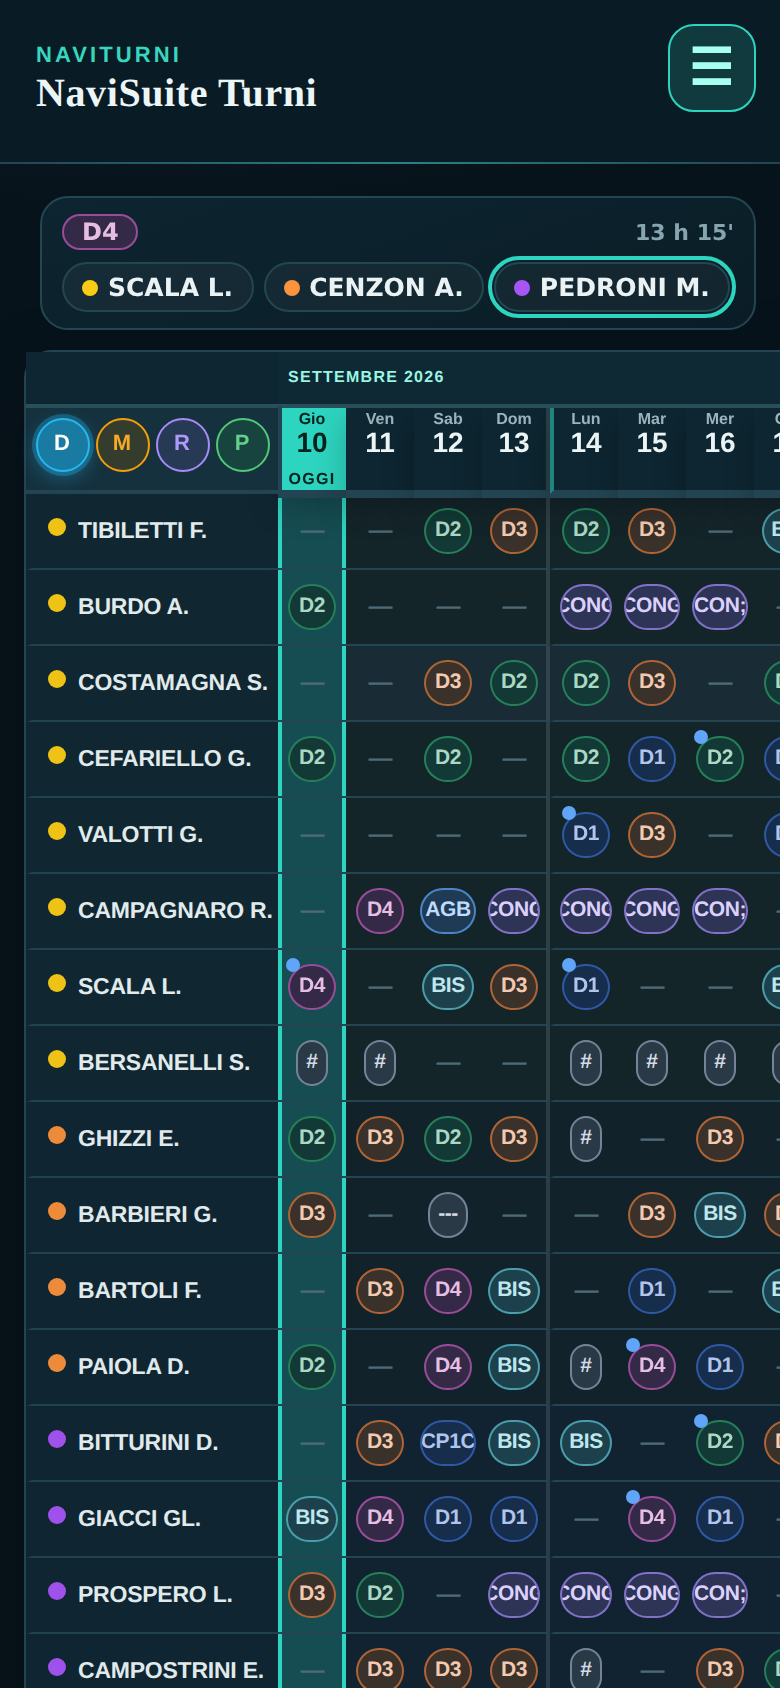
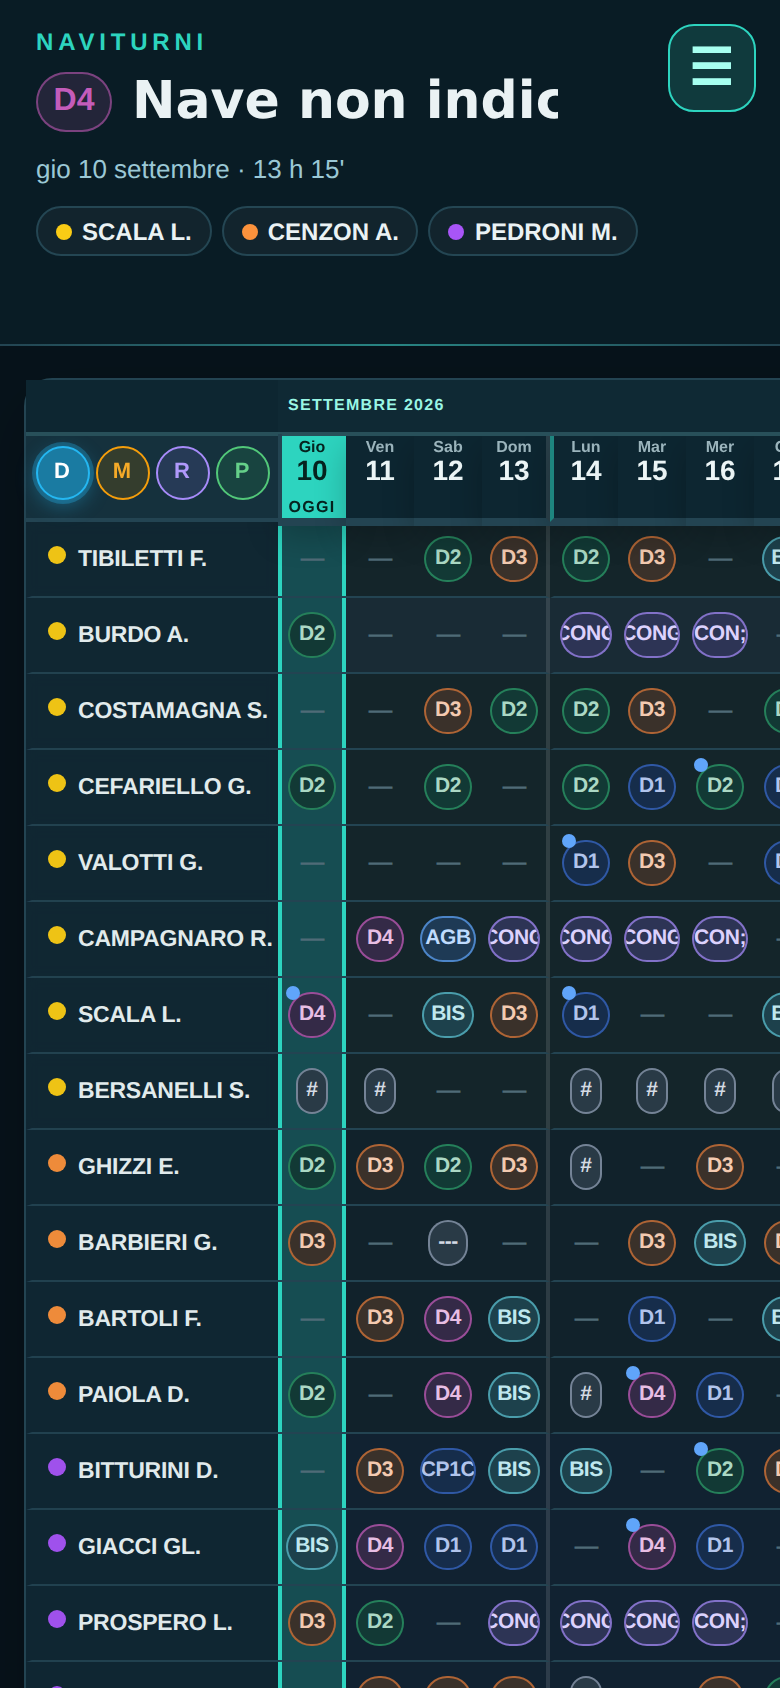
NaviTurni: equipaggio nella testata con lo stile del Mio turno, altezza fissa, due righe di nomi
Claude-Session: https://claude.ai/code/session_01VDWATqq8aPYLsGMarqRFMx

diff --git a/assets/js/naviturni-vista.js b/assets/js/naviturni-vista.js
@@ -5,6 +5,10 @@
   'use strict';
   const G = window.NaviTurniGiorno, C = window.NaviShiftCompetence;
   const box = document.getElementById('nt-vista');
+  // la testata della pagina diventa quella del turno scelto (al posto di «NaviSuite Turni»)
+  const header = document.querySelector('body>header.page-header');
+  const testata = document.createElement('div'); testata.id = 'nt-testata';
+  if (header) { header.querySelector('.turni-header-copy')?.setAttribute('hidden', ''); header.prepend(testata); }
   if (!G || !box) return;
   document.body.classList.add('nt-stile');
   const GIORNI = ['dom', 'lun', 'mar', 'mer', 'gio', 'ven', 'sab'], MESI = ['gennaio', 'febbraio', 'marzo', 'aprile', 'maggio', 'giugno', 'luglio', 'agosto', 'settembre', 'ottobre', 'novembre', 'dicembre'];
@@ -31,28 +35,31 @@
   const giornoLungo = day => { const d = parse(day); return `${GIORNI[d.getDay()]} ${d.getDate()} ${MESI[d.getMonth()]}`; };
 
   // Riquadro in alto: il turno scelto (di default il mio di oggi) e chi c'e' a bordo
+  // Testata come il Mio turno: etichetta, codice + nave, giorno e ore, poi l'equipaggio in bolle (due righe).
+  // Righe ad altezza fissa: cambiando corsa o servizio la tabella sotto non si sposta.
   function scheda() {
     const mio = io();
     const day = scelta?.day || oggi, code = scelta?.code || (mio ? turno(mio.a, oggi) : '');
-    
-    if (!code || RIPOSO.test(code)) return `<div class="nt-sez"><div class="nt-mio"><span class="nt-code rip">—</span><div><b>Riposo</b><small>Tocca un turno nella tabella per vedere l'equipaggio.</small></div></div></div>`;
+    const giorno = giornoLungo(day);
+    const testa = (titolo, contesto, nomi) => `<p class="terra-label">NAVITURNI</p><h1 class="terra-title nt-titolo">${titolo}</h1><p class="terra-context nt-contesto">${contesto}</p><div class="nt-eq-nomi">${nomi}</div>`;
+    if (!code || RIPOSO.test(code)) return testa('Riposo', `${giorno} · tocca un turno per vedere l'equipaggio`, '');
     const nave = G.naveCode(code), ore = Number(C?.shiftForCode?.(nave || code, day)?.hours) || 0;
     const riga = (schedule?.turni_navi || []).filter(r => String(r?.data || '').slice(0, 10) === day && G.naveCode(r?.corsa) === nave && r?.attiva !== false).pop();
-    const dettagli = [ore ? `${Math.floor(ore)} h${Math.round((ore % 1) * 60) ? ` ${String(Math.round((ore % 1) * 60)).padStart(2, '0')}'` : ''}` : '', riga?.nave ? `nave ${esc(riga.nave)}` : ''].filter(Boolean).join(' · ');
+    const durata = ore ? `${Math.floor(ore)} h${Math.round((ore % 1) * 60) ? ` ${String(Math.round((ore % 1) * 60)).padStart(2, '0')}'` : ''}` : '';
     let crew = [];
     try { const eq = G.equipaggi(schedule, day); crew = nave ? (eq.navi[nave] || []) : (eq.terra[G.terraCode(code)] || []).map(name => ({ name, grado: ['', '#94a3b8', 9] })); } catch { crew = []; }
-    const mioId = String(profilo()?.id || '');
     const ord = m => { const i = ORDINE_GRADI.indexOf(m.grado[0]); return i < 0 ? 99 : i; };
     crew = crew.slice().sort((x, y) => ord(x) - ord(y) || anzianita({ agente: x.name }) - anzianita({ agente: y.name }) || x.name.localeCompare(y.name, 'it'));
-    // compatto: in alto codice del turno e ore, sotto i nomi in bolle col pallino del colore del grado
-    const righe = crew.map(m => `<span class="${m.id && m.id === mioId ? 'me' : ''}" style="--g:${m.grado[1]}" title="${esc(m.grado[0] === 'Applicato' ? 'Bigliettaio' : m.grado[0] || '')}">${esc(m.name)}</span>`).join('');
-    return `<div class="nt-eq"><div class="nt-eq-hd"><span class="nt-code" style="--t:${G.coloreTurno(code)}">${esc(code)}</span><small>${dettagli}</small></div><div class="nt-eq-nomi">${righe || '<p class="nt-vuoto">Nessuno trovato.</p>'}</div></div>`;
+    const nomi = crew.map(m => `<span style="--g:${m.grado[1]}" title="${esc(m.grado[0] === 'Applicato' ? 'Bigliettaio' : m.grado[0] || '')}">${esc(m.name)}</span>`).join('');
+    const chip = `<span class="chip" style="--c:${G.coloreTurno(code)}">${esc(code)}</span>`;
+    return testa(`${chip} ${esc(riga?.nave || (nave ? 'Nave non indicata' : 'Servizio a terra'))}`, [giorno, durata].filter(Boolean).join(' · '), nomi);
   }
+
 
   // ordine dell'equipaggio: per grado (l'applicato sopra il marinaio) e poi per anzianita'
   const ORDINE_GRADI = ['Capitano', 'Capo timoniere', 'Motorista', 'Timoniere', 'Aiuto motorista', 'Applicato', 'Marinaio'];
   const anzianita = a => { const r = Number(window.NaviSharedData?.seniorityRank?.(a.agente)); return Number.isFinite(r) ? r : 1e9; };
-  const disegnaScheda = () => { box.innerHTML = `<div id="nt-scheda">${scheda()}</div>`; };
+  const disegnaScheda = () => { (header ? testata : box).innerHTML = scheda(); };
 
   // Tocco su una bolla della tabella: l'equipaggio di quel turno in quel giorno (date e turni dalla tabella stessa)
   document.addEventListener('click', e => {
@@ -68,16 +75,15 @@
     document.querySelectorAll('#tbody td.nt-sel').forEach(x => x.classList.remove('nt-sel'));
     td.classList.add('nt-sel');
     disegnaScheda();
-    // tutta la scheda in vista, sotto la tacca dell'iPhone
+    // la testata in vista, sotto la tacca dell'iPhone
     const tacca = document.createElement('div'); tacca.style.cssText = 'position:fixed;top:0;height:env(safe-area-inset-top,0px)';
     document.body.appendChild(tacca); const alto = tacca.offsetHeight + 16; tacca.remove();
-    window.scrollTo({ top: Math.max(0, box.getBoundingClientRect().top + scrollY - alto), behavior: 'smooth' });
+    window.scrollTo({ top: Math.max(0, (header || box).getBoundingClientRect().top + scrollY - alto), behavior: 'smooth' });
   }, true);
   // la vecchia scheda equipaggio della tabella si apriva al rilascio del dito: non le arriva piu' nulla
   ['pointerdown', 'pointerup'].forEach(t => document.addEventListener(t, e => { if (e.target.closest('#tbody td[data-col], .date-header th[data-col]')) e.stopPropagation(); }, true));
   // anche toccando una data si apriva la vecchia scheda del giorno
   document.addEventListener('click', e => { if (e.target.closest('.date-header th[data-col]')) { e.stopPropagation(); e.preventDefault(); } }, true);
-  box.addEventListener('click', e => { if (e.target.closest('[data-oggi]')) { scelta = null; document.querySelectorAll('#tbody td.nt-sel').forEach(x => x.classList.remove('nt-sel')); disegnaScheda(); } });
 
   // Oggi in evidenza nella tabella (che si ridisegna da sola: si rimette il segno ogni volta)
   // altezze vere di mese e date: la mia riga si incolla subito sotto, senza spazi

diff --git a/tools/mockup-equipaggio-testata.html b/tools/mockup-equipaggio-testata.html
@@ -1,0 +1,17 @@
+<!doctype html><html><head><meta charset="utf-8"><style>
+body{margin:0;background:#071923;font-family:Manrope,system-ui,sans-serif;color:#e8f7f7;width:390px}
+header{background:#091c25;padding:18px 16px 14px;border-bottom:1px solid #1f4250;position:relative}
+.lab{color:#2dd4bf;font-size:12px;letter-spacing:.3em;font-weight:900}
+.tit{display:flex;align-items:center;gap:10px;margin:8px 0 6px}.tit b{font-size:26px;font-weight:900}
+.code{border:1.5px solid #3b6bcc;background:#13254a;color:#c9d8ff;border-radius:99px;padding:3px 13px;font-size:17px;font-weight:900}
+.sub{color:#9fb8c2;font-size:13px;margin-bottom:9px}
+.chips{display:flex;flex-wrap:wrap;gap:5px}.chips span{display:inline-flex;align-items:center;gap:5px;padding:4px 9px;border-radius:99px;background:rgba(255,255,255,.04);border:1px solid #244653;font-size:12.5px;font-weight:900}.chips span::before{content:'';width:8px;height:8px;border-radius:50%;background:var(--g)}.me{outline:2px solid #2dd4bf;outline-offset:1px}
+.menu{position:absolute;right:12px;top:14px;width:44px;height:44px;border:1px solid #2dd4bf;border-radius:13px;background:#103a3d;display:grid;place-items:center;color:#a7fff0;font-size:22px}
+.tab{height:330px;background:repeating-linear-gradient(#0f2129 0 38px,#16303a 38px 39px);display:grid;place-items:center;color:#4f6b77;font-size:12px}
+</style></head><body>
+<header><div class="menu">☰</div><div class="lab">NAVITURNI</div>
+<div class="tit"><span class="code">T1</span><b>BRESCIA</b></div>
+<div class="sub">ven 23 ottobre · 11 h 30'</div>
+<div class="chips"><span style="--g:#facc15">SCARMIGLIATI M.</span><span style="--g:#a855f7">CIVETTINI G.</span><span style="--g:#22c55e">ALGERI A.</span><span style="--g:#3b82f6">CHIGNOLA M.</span><span class="me" style="--g:#e8f3f6">PEDRONI M.</span></div></header>
+<div class="tab">tabella turni (subito sotto)</div>
+</body></html>

diff --git a/assets/css/naviturni-vista.css b/assets/css/naviturni-vista.css
@@ -111,3 +111,13 @@ body.nt-stile #tbody td.elsewhere-span.nt-oggi{background:transparent!important;
 #nt-vista .nt-eq-nomi span::before{content:'';width:8px;height:8px;border-radius:50%;background:var(--g)}
 #nt-vista .nt-eq-nomi span.me{outline:2px solid #2dd4bf;outline-offset:1px}
 body.nt-stile #nt-vista{width:calc(100vw - 32px)!important;max-width:900px}
+/* testata come il Mio turno, ad altezza fissa */
+body.nt-stile #nt-vista:empty{display:none}
+#nt-testata .terra-label{margin:0 0 4px;color:#2dd4bf;font-size:12px;font-weight:800;letter-spacing:.2em}
+#nt-testata .terra-title{display:flex;align-items:center;gap:10px;margin:0;height:38px;white-space:nowrap;overflow:hidden;font:800 26px/1.1 Manrope,system-ui,sans-serif;color:#eaf2f4;max-width:calc(100% - 60px)}
+#nt-testata .chip{--c:#94a3b8;display:inline-flex;align-items:center;justify-content:center;min-width:38px;padding:6px 12px;border:1px solid color-mix(in srgb,var(--c) 55%,transparent);border-radius:999px;background:color-mix(in srgb,var(--c) 14%,transparent);color:var(--c);font:900 16px/1 Manrope,sans-serif}
+#nt-testata .terra-context{margin:5px 0 8px;height:20px;line-height:20px;color:#9bc8d5;font-size:13px;white-space:nowrap;overflow:hidden;text-overflow:ellipsis}
+#nt-testata .nt-eq-nomi{display:flex;flex-wrap:wrap;align-content:flex-start;gap:5px;height:55px;overflow:hidden}
+#nt-testata .nt-eq-nomi span{display:inline-flex;align-items:center;gap:5px;height:25px;box-sizing:border-box;padding:0 9px;border-radius:99px;background:rgba(255,255,255,.04);border:1px solid #244653;color:#eaf2f4;font-size:12px;font-weight:900;white-space:nowrap}
+#nt-testata .nt-eq-nomi span::before{content:'';width:8px;height:8px;border-radius:50%;background:var(--g)}
+body.nt-stile>header.page-header .turni-header-copy[hidden]{display:none!important}

diff --git a/naviturni.html b/naviturni.html
@@ -24,7 +24,7 @@
   <link rel="stylesheet" href="assets/css/naviturni-page.css?v=4">
   <link rel="stylesheet" href="assets/css/shared-menu.css?v=2">
   <link rel="stylesheet" href="assets/css/naviturni-page-fixes.css?v=1">
-  <link rel="stylesheet" href="assets/css/naviturni-vista.css?v=26">
+  <link rel="stylesheet" href="assets/css/naviturni-vista.css?v=27">
 <script src="assets/js/beta-readonly.js?v=5"></script>
 </head>
 <body class="turni-page">
@@ -137,7 +137,7 @@
   <script src="assets/js/offline.js?v=2"></script>
   <script src="assets/js/naviturni-page.js?v=20"></script>
   <script src="assets/js/turni-giorno.js?v=12"></script>
-  <script src="assets/js/naviturni-vista.js?v=20"></script>
+  <script src="assets/js/naviturni-vista.js?v=21"></script>
 
   <!-- Navigazione Mobile Liquid Glass -->
 

diff --git a/sw.js b/sw.js
@@ -8,7 +8,7 @@
  * - aggiornare gli asset in background quando la rete e' disponibile.
  */
 
-const CACHE_VERSION = 'navibeta-v793-riquadro-largo-giusto';
+const CACHE_VERSION = 'navibeta-v794-testata-mio-turno';
 // JS e CSS estratti da naviturni.html e cambi_turno.html. Sono legati al markup
 // della pagina: l'URL comprende ?v= e deve coincidere con quello scritto
 // nell'HTML, altrimenti il precache non viene usato.
